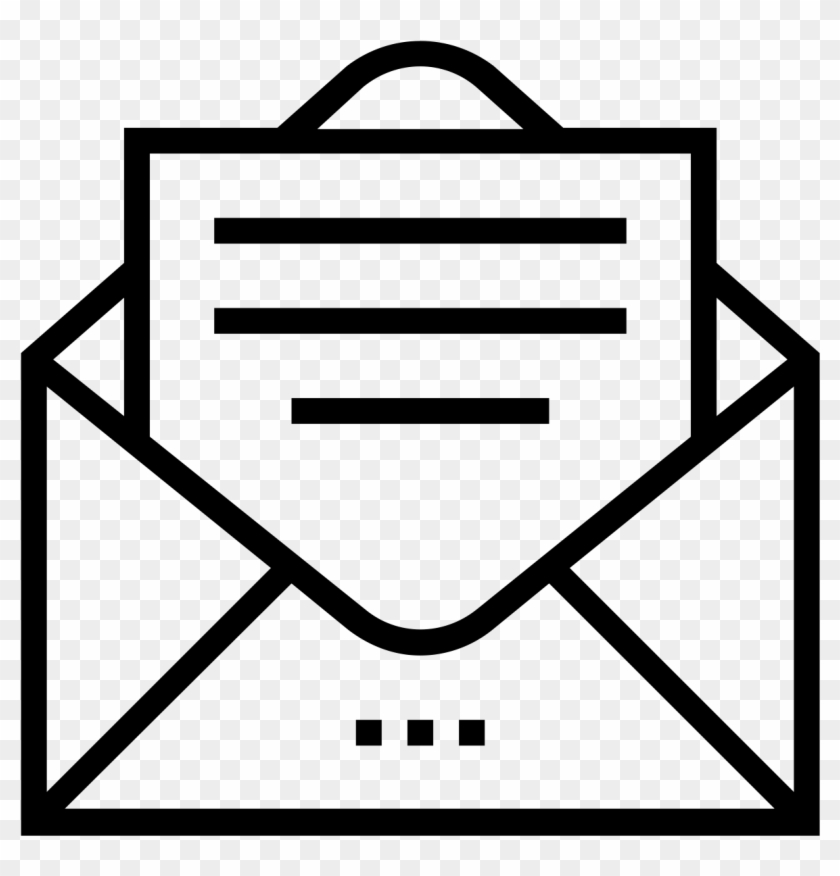
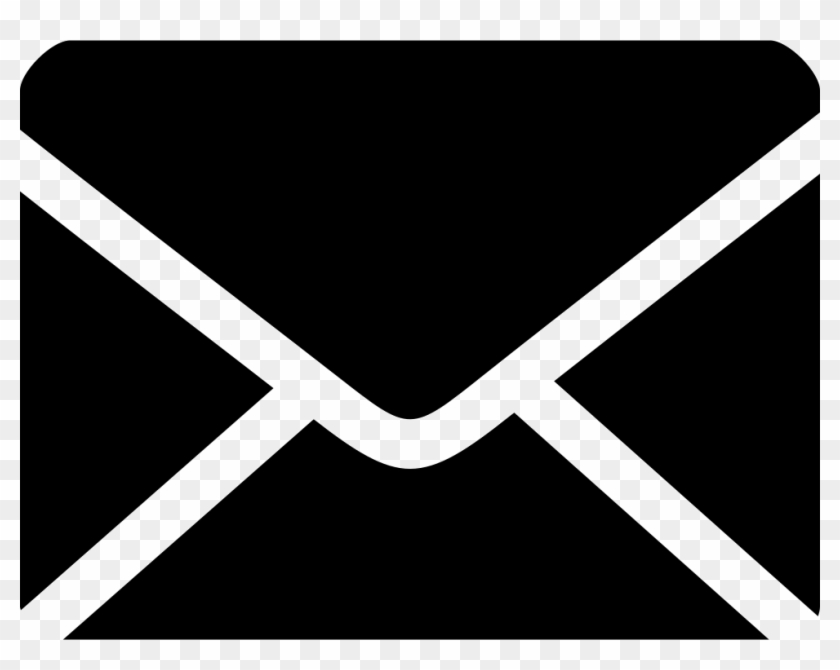
Added white PNG images, fixed links in HTML, link highlights and block highlights in CSS.

diff --git a/index.html b/index.html
@@ -66,12 +66,13 @@
           <!-- Web Development Projects -->
 
           <div id="development" class="content-blockmain">
+            <a href="https://github.com/mdschenck" target="top"></a>
             <img
               src="./assets/images/devproject1.jpg"
               class="float-center"
               alt="Image of dev project1"
-            />
-            <h2>Development Project 1</h2>
+            /></a>
+            <h2><a href="https://github.com/mdschenck">Development Project 1</a></h2>
             <p>
               This is a placeholder for a development project that will be
               coming soon. I hope to develop multiple engaging and interesting
@@ -91,12 +92,20 @@
           </div> -->
 
           <div class="content-blocks">
-            <img
-              src="./assets/images/coderefactoring.jpg"
-              class="float-right"
-              alt="Image of Code Refactoring Project"
-            />
-            <h2>Code Refactoring Project</h2>
+            <a
+              href="https://mdschenck.github.io/01-Html-Css_Homework-Demo/"
+              target="top"
+            >
+              <img
+                src="./assets/images/coderefactoring.jpg"
+                class="float-right"
+                alt="Image of Code Refactoring Project"
+            /></a>
+            <h2>
+              <a href="https://mdschenck.github.io/01-Html-Css_Homework-Demo/"
+                >Code Refactoring Project</a
+              >
+            </h2>
             <p>
               In this Code Refactoring Project, I was tasked with implementing
               semantic code elements for a business web site to optimize the
@@ -168,11 +177,11 @@
           </div>
           <div class="contactme-blocks">
             <h3>Email</h3>
+            <a href="mailto:mdschenck@gmail.com">
             <img
-              src="./assets/images/email.png"
+              src="./assets/images/email2.png"
               alt="Image of email icon"
-              href="mailto:mdschenck@gmail.com"
-            />
+            /></a>
             <p>
               To reach me directly, please send an email to:
               <a href="mailto:mdschenck@gmail.com">mdschenck@gmail.com</a>
@@ -180,8 +189,8 @@
           </div>
           <div class="contactme-blocks">
             <h3>LinkedIn</h3>
-            <img src="./assets/images/linkedin.png" alt="Image of LinkedIn icon"
-            href=""https://www.linkedin.com/in/michael-schenck-0026b3120"
+            <img src="./assets/images/linkedin2.png" alt="Image of LinkedIn
+            icon" href=""https://www.linkedin.com/in/michael-schenck-0026b3120"
             target="top" />
             <p>
               You can also reach me via my LinkedIn profile
@@ -195,7 +204,7 @@
           <div class="contactme-blocks">
             <h3>GitHub</h3>
             <img
-              src="./assets/images/github.png"
+              src="./assets/images/github2.png"
               alt="Image of GitHub Logo Icon"
               href="https://www.github.com/mdschenck"
               target="top"
@@ -210,7 +219,7 @@
           <div class="contactme-blocks">
             <h3>Resume</h3>
             <img
-              src="./assets/images/resume.png"
+              src="./assets/images/resume2.png"
               alt="Image of Resume Icon"
               href="./assets/files/MichaelSchenck-Resume2022.pdf"
               target="top"

diff --git a/assets/css/style.css b/assets/css/style.css
@@ -127,6 +127,10 @@ header nav ul li {
   font-size: 36px;
 }
 
+.content-blocks:hover {
+  box-shadow: 5px 5px #976b9c;
+}
+
 .content-blockmain {
   margin-bottom: 10px;
   padding: 20px;
@@ -145,6 +149,10 @@ header nav ul li {
   font-size: 36px;
 }
 
+.content-blockmain:hover {
+  box-shadow: 5px 5px #976b9c;
+}
+
 /* Sidebar styling */
 
 aside {
@@ -156,6 +164,10 @@ aside {
   height: 100%;
   font-family: "Gill Sans", "Gill Sans MT", Calibri, "Trebuchet MS", sans-serif;
   background-color: #15967c;
+}
+
+aside:hover {
+  box-shadow: 5px 5px #976b9c;
 }
 
 .contactme-blocks {
@@ -170,6 +182,10 @@ aside {
 
 .contactme-blocks h3 {
   margin-bottom: 10px;
+  text-align: center;
+}
+
+.contactme-blocks p {
   text-align: center;
 }
 

diff --git a/README.md b/README.md
@@ -1,1 +1,52 @@
 # Developer-Portfolio
+
+## Description
+
+This excercise is intended to follow the journey of a support ticket placed by a marketing agency to make their existing website more accessible through refactoring the code to include proper semantic elements, comments, and alt image text.
+
+The USER STORY for this project is as follows:
+-AS A marketing agency,
+-I WANT a codebase that follows accessibility standards
+-SO THAT our own site is optimized for search engines.
+
+Given this user story, this project took their existing codebase and refactored the code to remove multiple non-descriptive DIV elements and replace them with the proper semantic elements like HEADER, NAV, MAIN, ASIDE, and FOOTER.
+Multiple redundant CSS elements were also combined and reorganized to facilitate better understanding of the site styling.
+
+In the Html document, fixed one link that was not working due to a missing ID tag, verified proper function of the other two links. Also created ALT image text for all images to increase accessibility. To create the alt image for the main hero banner image, a SPAN was created with a role of IMG and a aria-label describing the image. Since this image does not contain any information not necessary to the understanding of the site, it is acceptable to have the image in the CSS without ALT text, but I felt it would be nice to be able to describe the image to a visitor using a screen-reader.
+
+## Useage
+
+This is a basic web application that functions to give information about my web development and design portfolio, and give prospective employers insight into my development and design skills. It can be accessed via any modern and legacy web browser.
+
+Link to completed project:
+
+This project meets all points of the Acceptance Criteria below:
+
+1. Source code contains semantic HTML elements.
+2. Source code elements follow a logical structure independent of styling and positioning.
+3. Each image and icon has accessible ALT attributes.
+4. The heading attributes fall in sequential order.
+5. A consise, descriptive title has been added to the site.
+
+Site screengrab to demonstrate visible appearance of the deployed web application:
+
+![Screenshot showing deployed website](assets/images/PortfolioScreenshot.jpg)
+
+## Web design sites info:
+
+TurnipTruckGA.com - Deployed 2015 to 2020. Magento Implementation partner- ExpandLabs, Atlanta, GA. Hosting - Nexcess. Card Processing - Auth.net.
+
+MixedByMichael.com - Deployed 2016 to 2021, Platform & Hosting: WIX.com. GoDaddy - DNS Hosting. Payment processing - PayPal.
+
+TwoTwelveRecorders.com - Deployed 2014 to 2021, Platform & Hosting: WIX.com. GoDaddy - DNS Hosting. Payment processing - PayPal.
+
+## Attribution:
+
+Hero Banner & Footer Artwork: Nam June Paik (Photo still taken by me in early 2000s), Smithsonian American Art Museum, Washington, DC.
+
+Clip Art sourced from www.flyclipart.com, specifically:
+https://flyclipart.com/download-png#github-png-transparent-github-images-813531.png
+
+https://flyclipart.com/download-png#white-email-icon-466284.png
+
+https://flyclipart.com/download-png#white-linkedin-icon-930912.png
